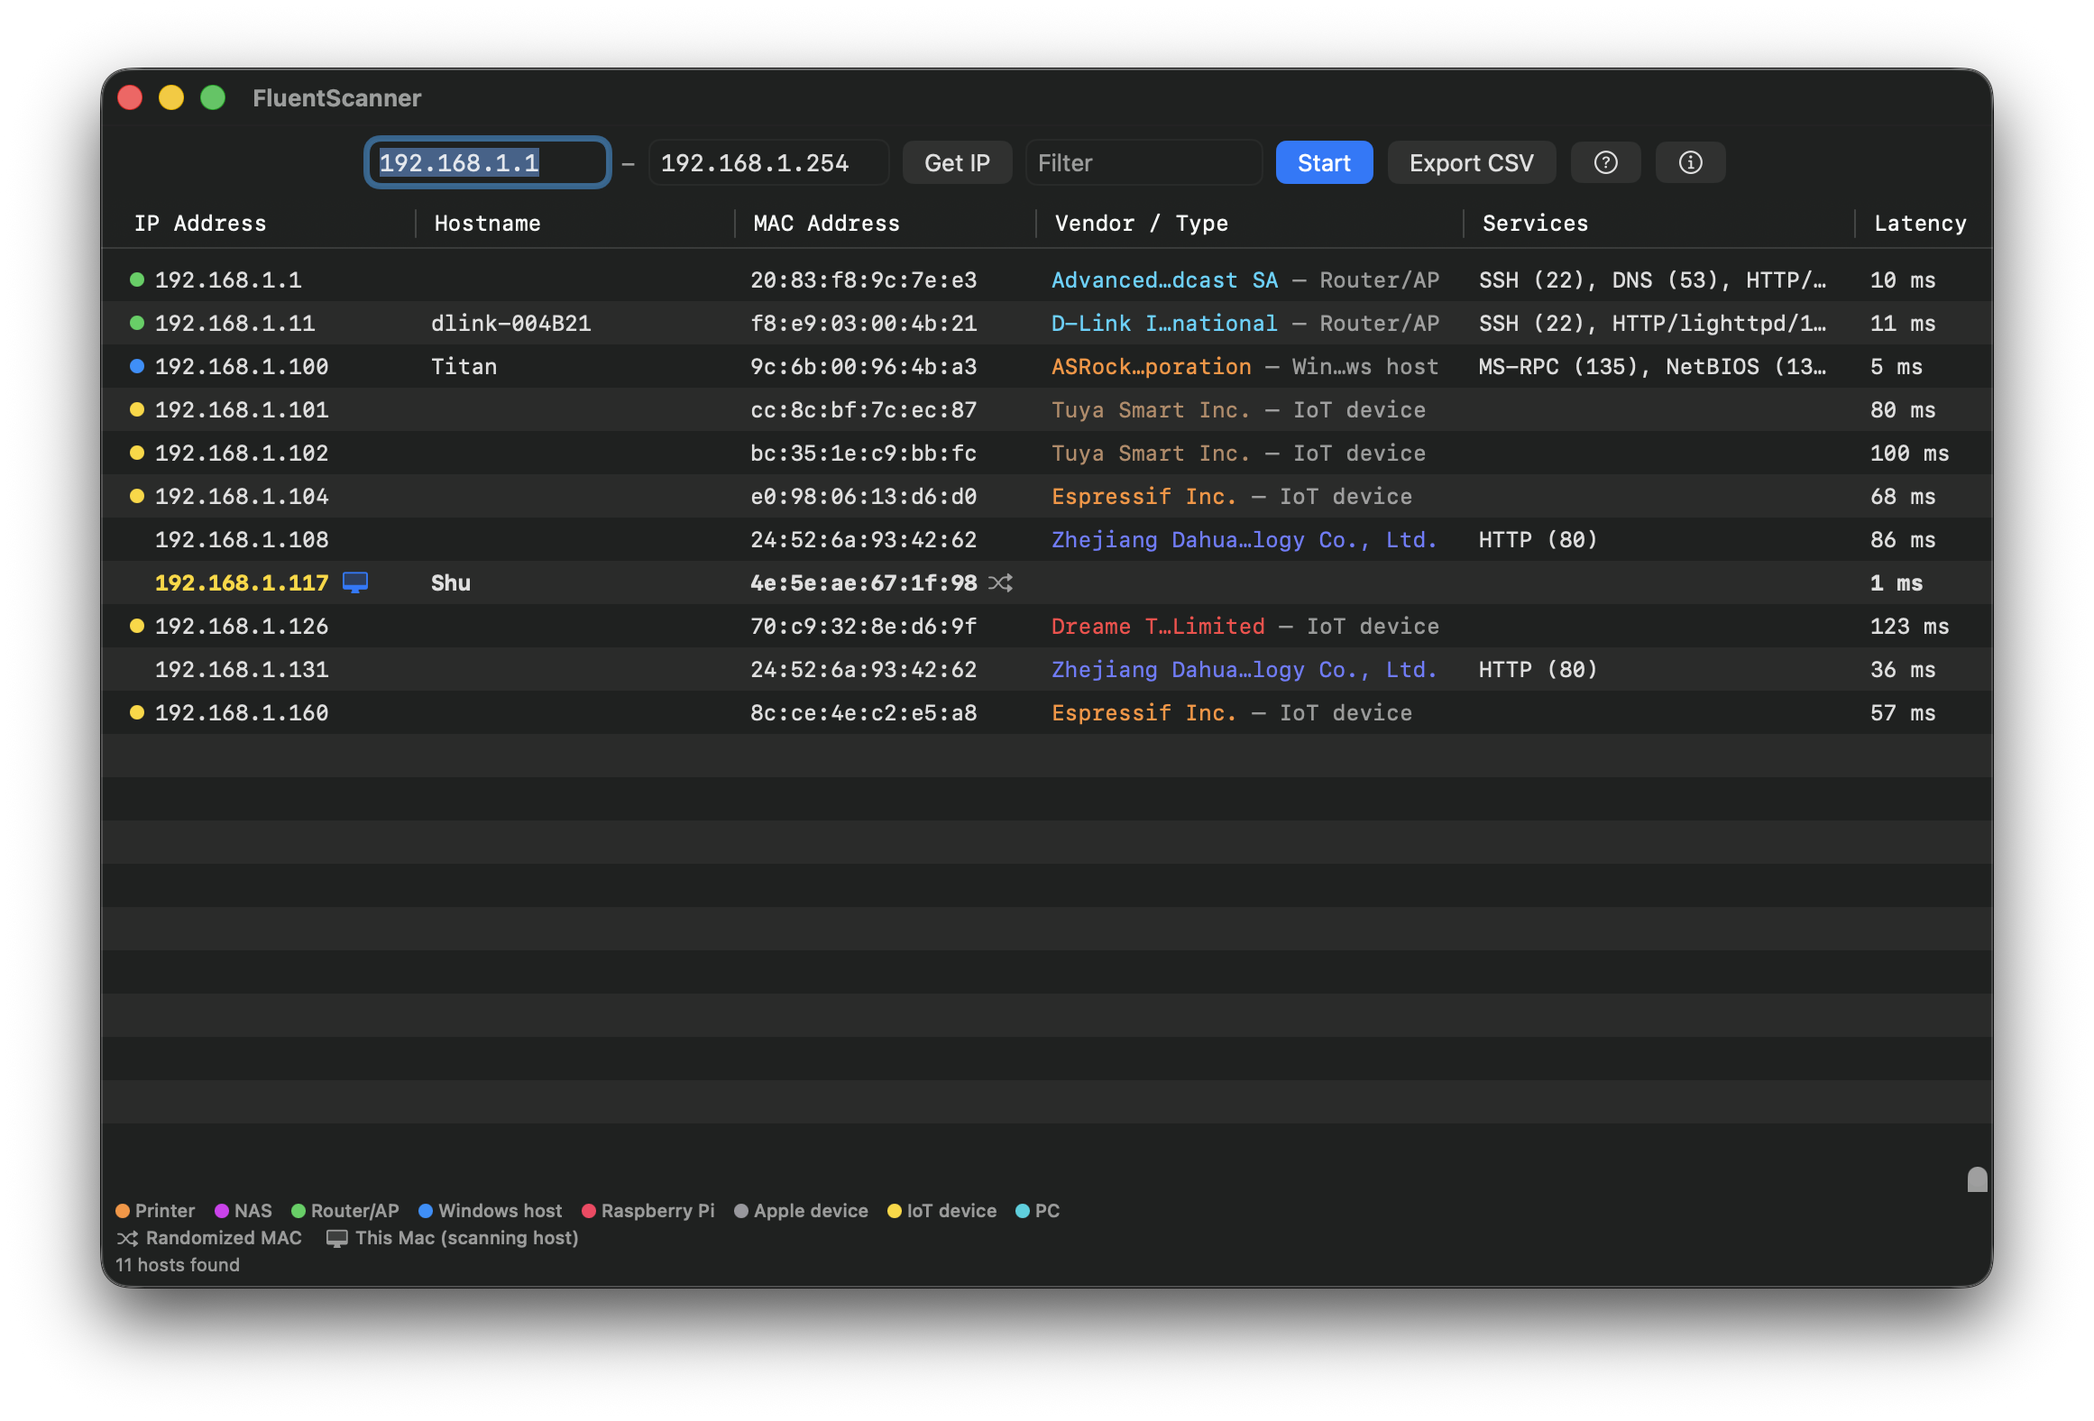
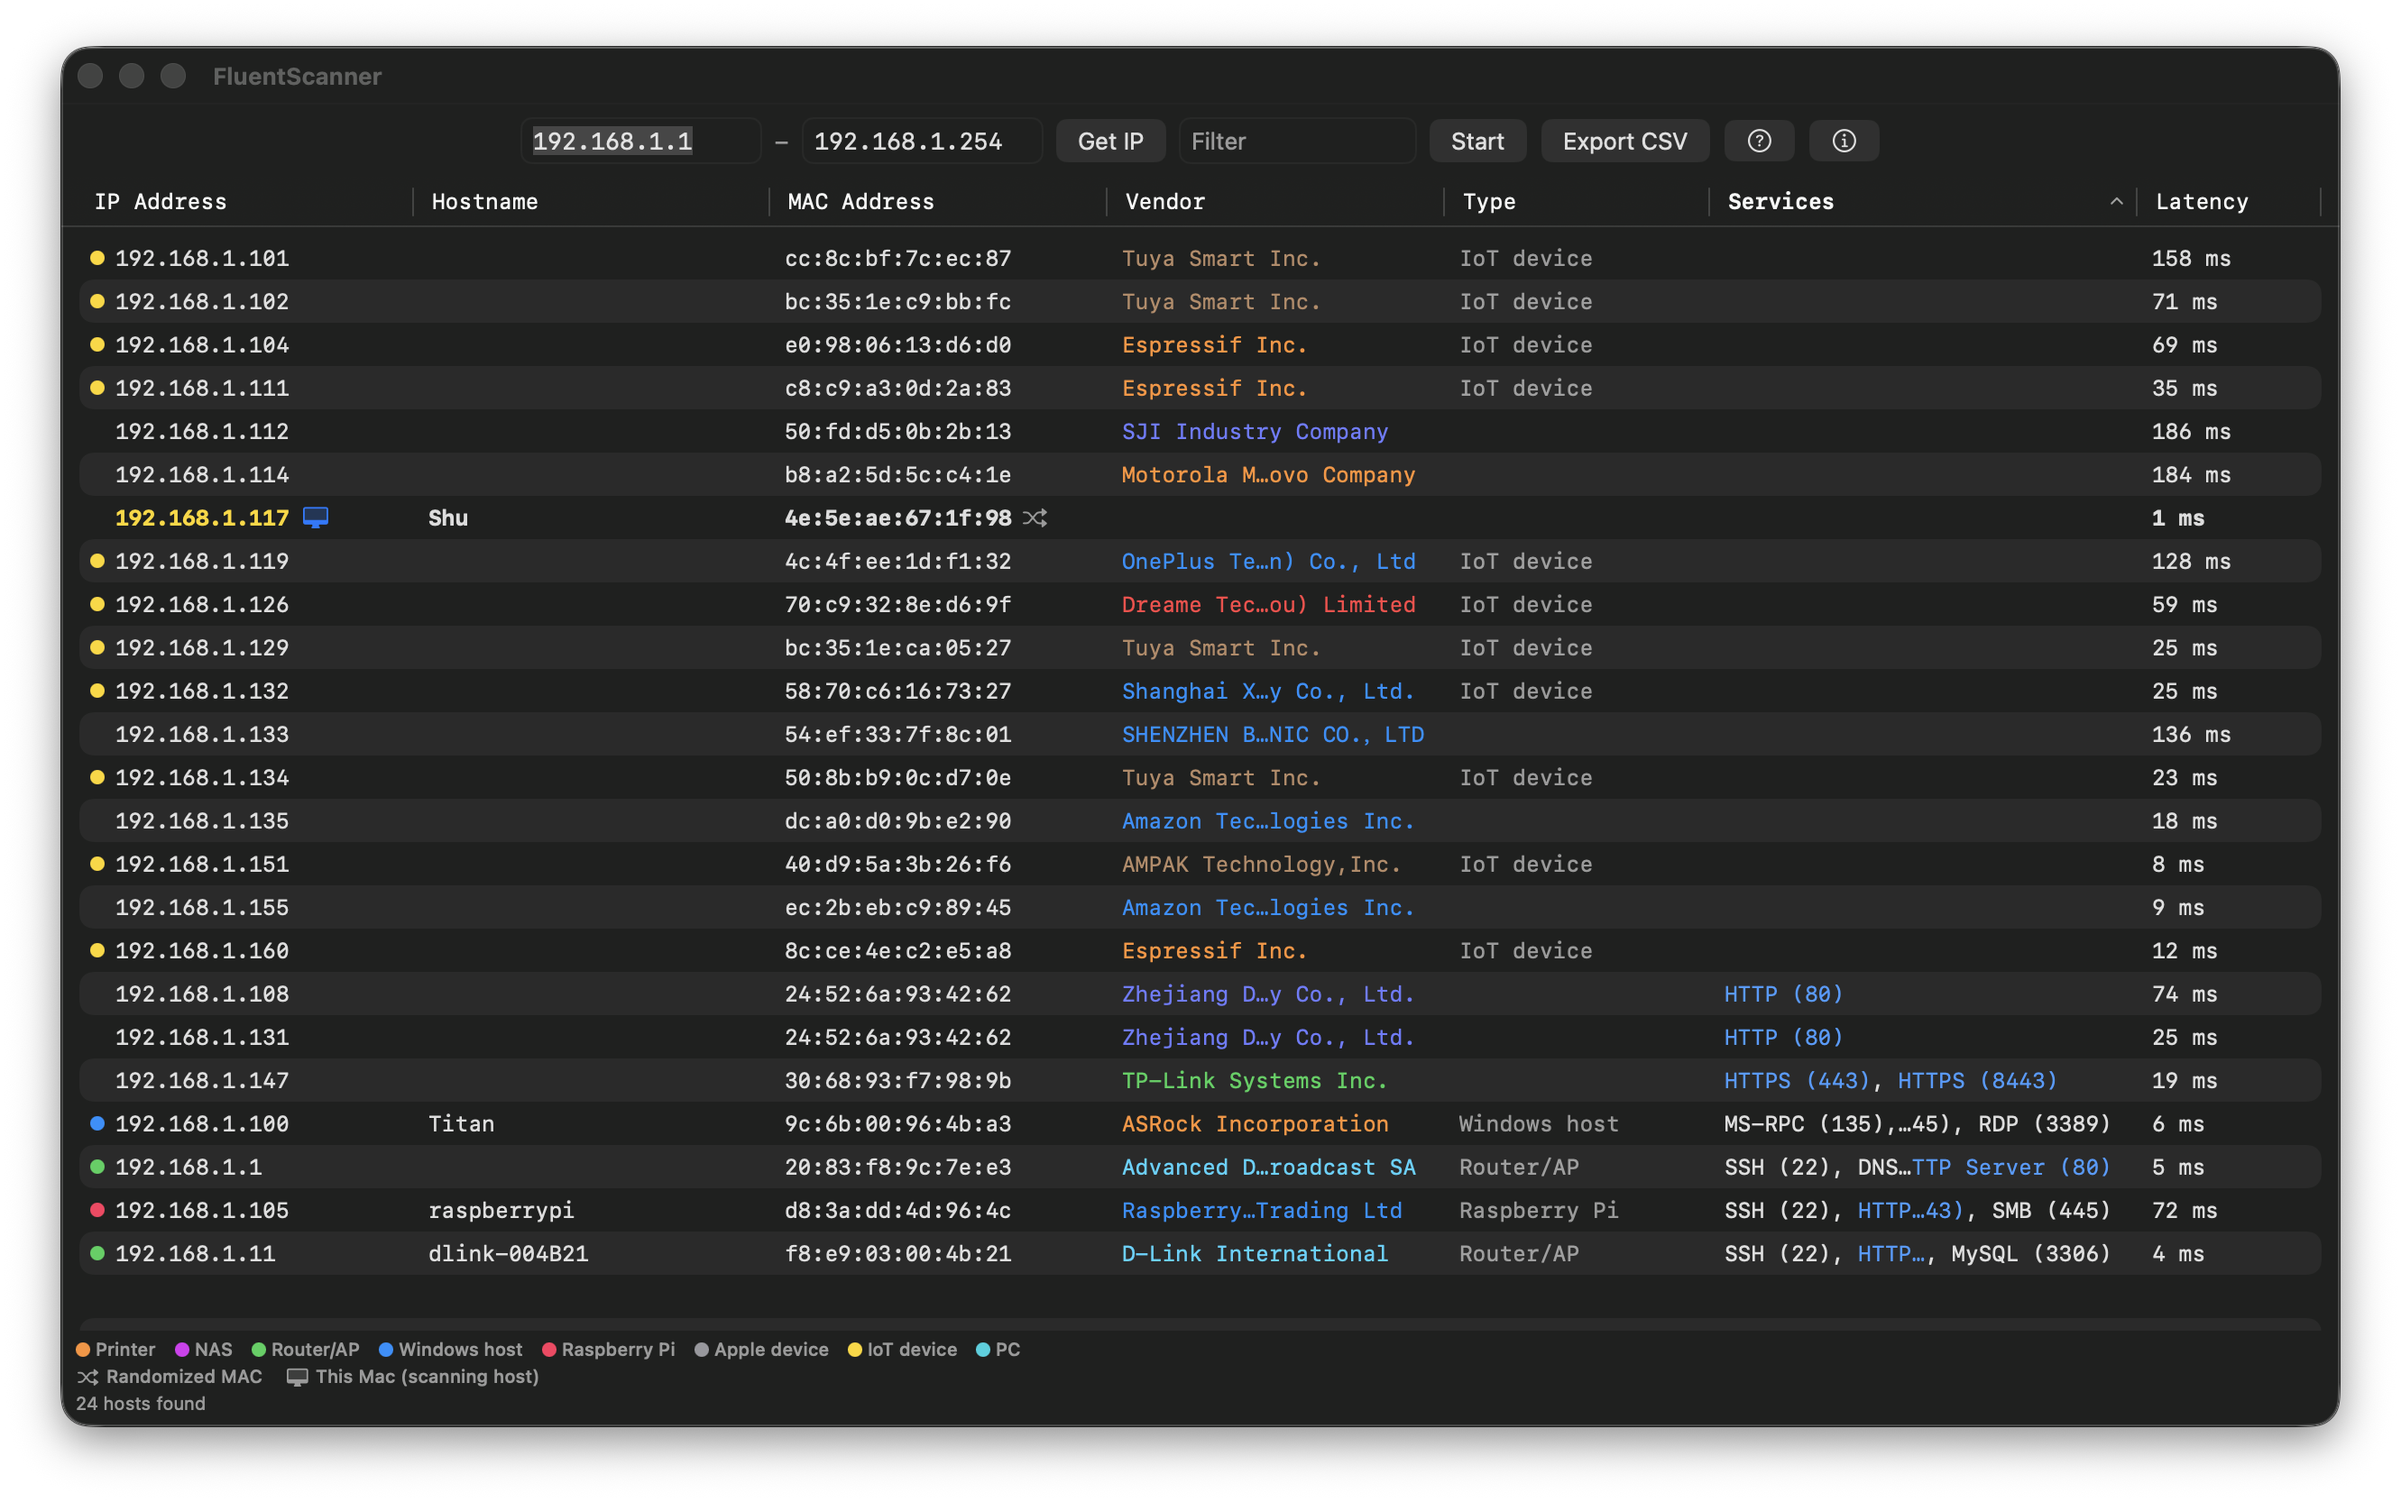
macos: single-line services cell via markdown links (no per-entry wrap)

diff --git a/macos/Sources/FluentScanner/Scanner.swift b/macos/Sources/FluentScanner/Scanner.swift
@@ -83,6 +83,35 @@ enum Scanner {
         return "\(name) (\(port))"
     }
 
+    /// One-line services markdown: HTTP/HTTPS entries become links so the
+    /// cell truncates as a unit instead of wrapping per entry. Pure —
+    /// exercised in the self-test.
+    static func servicesMarkdown(ip: String, ports: [UInt16], server: String?) -> String {
+        ports.sorted().map { p in
+            let label = serviceLabel(p, server: server)
+            let scheme: String?
+            switch portNames[p] {
+            case "HTTP": scheme = "http"
+            case "HTTPS": scheme = "https"
+            default: scheme = nil
+            }
+            if let scheme {
+                return "[\(mdEscape(label))](\(scheme)://\(ip):\(p))"
+            }
+            return mdEscape(label)
+        }.joined(separator: ", ")
+    }
+
+    private static func mdEscape(_ s: String) -> String {
+        var out = ""
+        out.reserveCapacity(s.count)
+        for c in s {
+            if "\\[]()_*~`#".contains(c) { out.append("\\") }
+            out.append(c)
+        }
+        return out
+    }
+
     // MARK: Target parsing
 
     /// Accepts "10.0.0.5", "10.0.0.0/24", "10.0.0.1-10.0.0.254",
@@ -924,6 +953,13 @@ enum Scanner {
             "service label https")
         check(Scanner.serviceLabel(9999, server: nil) == "9999",
             "service label unknown port")
+        check(Scanner.servicesMarkdown(ip: "1.2.3.4", ports: [80], server: "Caddy")
+            == "[HTTP/Caddy \\(80\\)](http://1.2.3.4:80)", "services markdown link")
+        check((try? AttributedString(
+            markdown: Scanner.servicesMarkdown(ip: "1.2.3.4", ports: [22, 80],
+                                               server: "Caddy"),
+            options: .init(interpretedSyntax: .inlineOnlyPreservingWhitespace))) != nil,
+            "services markdown parses")
         if let sub = localSubnet() {
             check(ipv4(sub.start) != nil && ipv4(sub.end) != nil
                 && ipv4(sub.start)! < ipv4(sub.end)!, "localSubnet range")

diff --git a/macos/Sources/FluentScanner/ContentView.swift b/macos/Sources/FluentScanner/ContentView.swift
@@ -160,31 +160,22 @@ struct ContentView: View {
         colorScheme == .dark ? .yellow : Color(red: 0.7, green: 0.45, blue: 0.0)
     }
 
-    /// Services cell: HTTP/HTTPS entries are links opening the host in
-    /// the browser, everything else plain text (same wording as the CSV).
+    /// Services cell: one Text (markdown links for HTTP/HTTPS) so the
+    /// whole cell truncates on a single line instead of wrapping per entry.
     private func servicesCell(_ r: HostRow) -> some View {
-        HStack(spacing: 0) {
-            ForEach(Array(r.ports.sorted().enumerated()), id: \.offset) { i, p in
-                if i > 0 { Text(", ") }
-                if let url = serviceURL(r.ip, p) {
-                    Link(Scanner.serviceLabel(p, server: r.server), destination: url)
-                } else {
-                    Text(Scanner.serviceLabel(p, server: r.server))
-                }
-            }
-        }
-        .lineLimit(1)
-        .truncationMode(.middle)
-        .help(r.services ?? "")
-        .fontWeight(r.isLocal ? .bold : .regular)
+        Text(servicesAttributed(r))
+            .lineLimit(1)
+            .truncationMode(.middle)
+            .help(r.services ?? "")
+            .fontWeight(r.isLocal ? .bold : .regular)
     }
 
-    private func serviceURL(_ ip: String, _ port: UInt16) -> URL? {
-        switch Scanner.portNames[port] {
-        case "HTTP": return URL(string: "http://\(ip):\(port)")
-        case "HTTPS": return URL(string: "https://\(ip):\(port)")
-        default: return nil
-        }
+    private func servicesAttributed(_ r: HostRow) -> AttributedString {
+        (try? AttributedString(
+            markdown: Scanner.servicesMarkdown(ip: r.ip, ports: r.ports,
+                                               server: r.server),
+            options: .init(interpretedSyntax: .inlineOnlyPreservingWhitespace)))
+            ?? AttributedString(r.services ?? "")
     }
 
     /// Device-type palette, shared by the row dots and the footer legend
